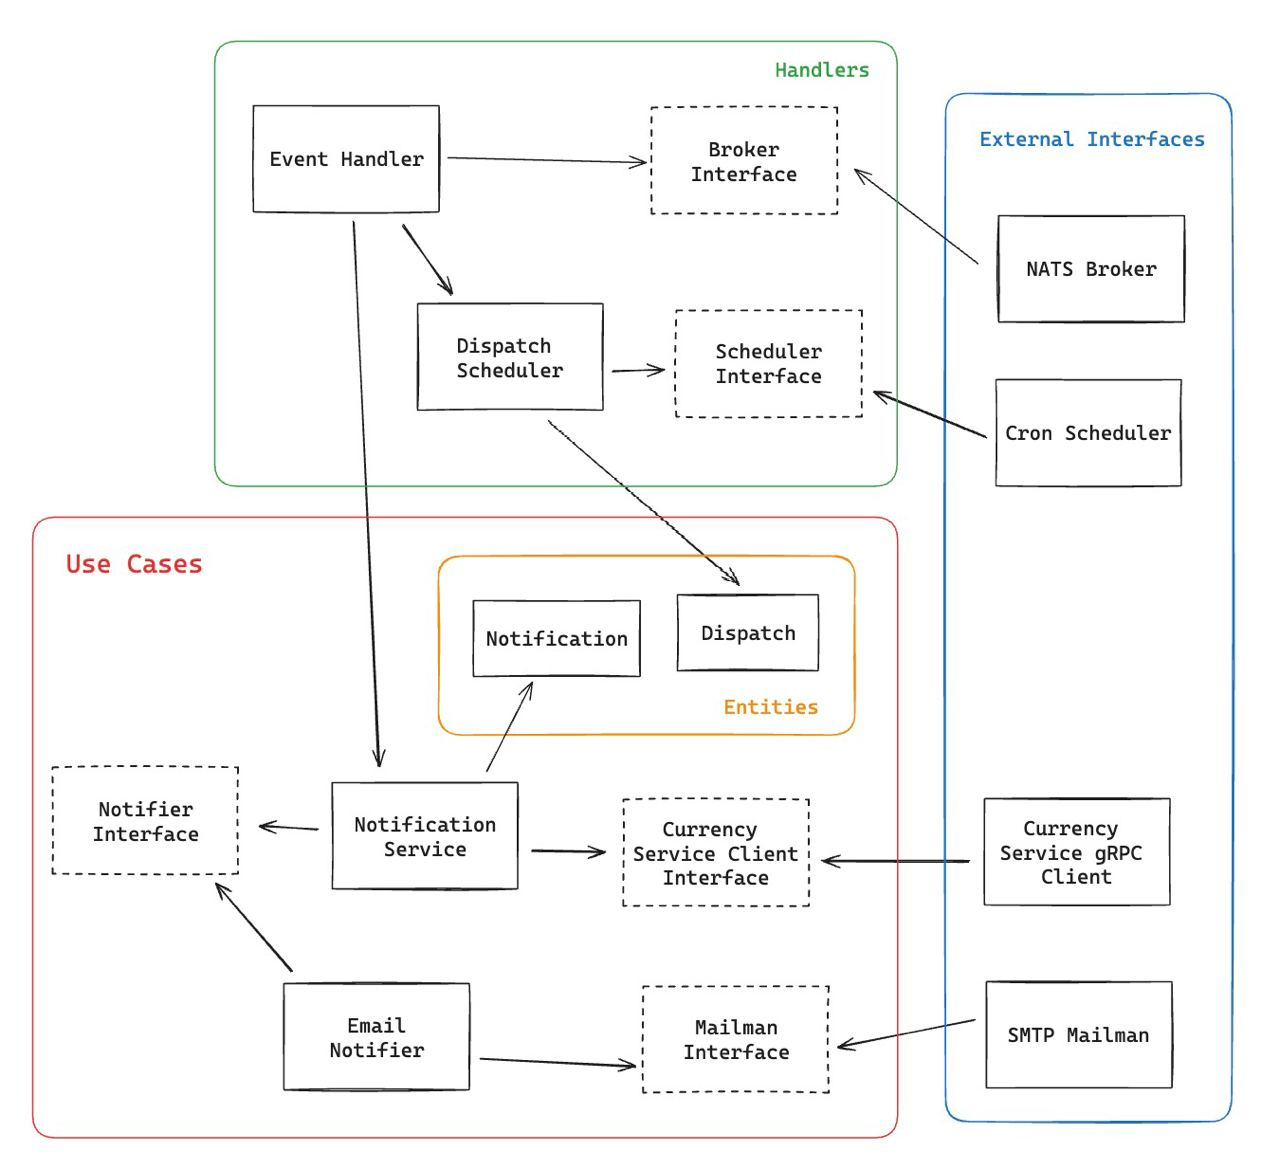
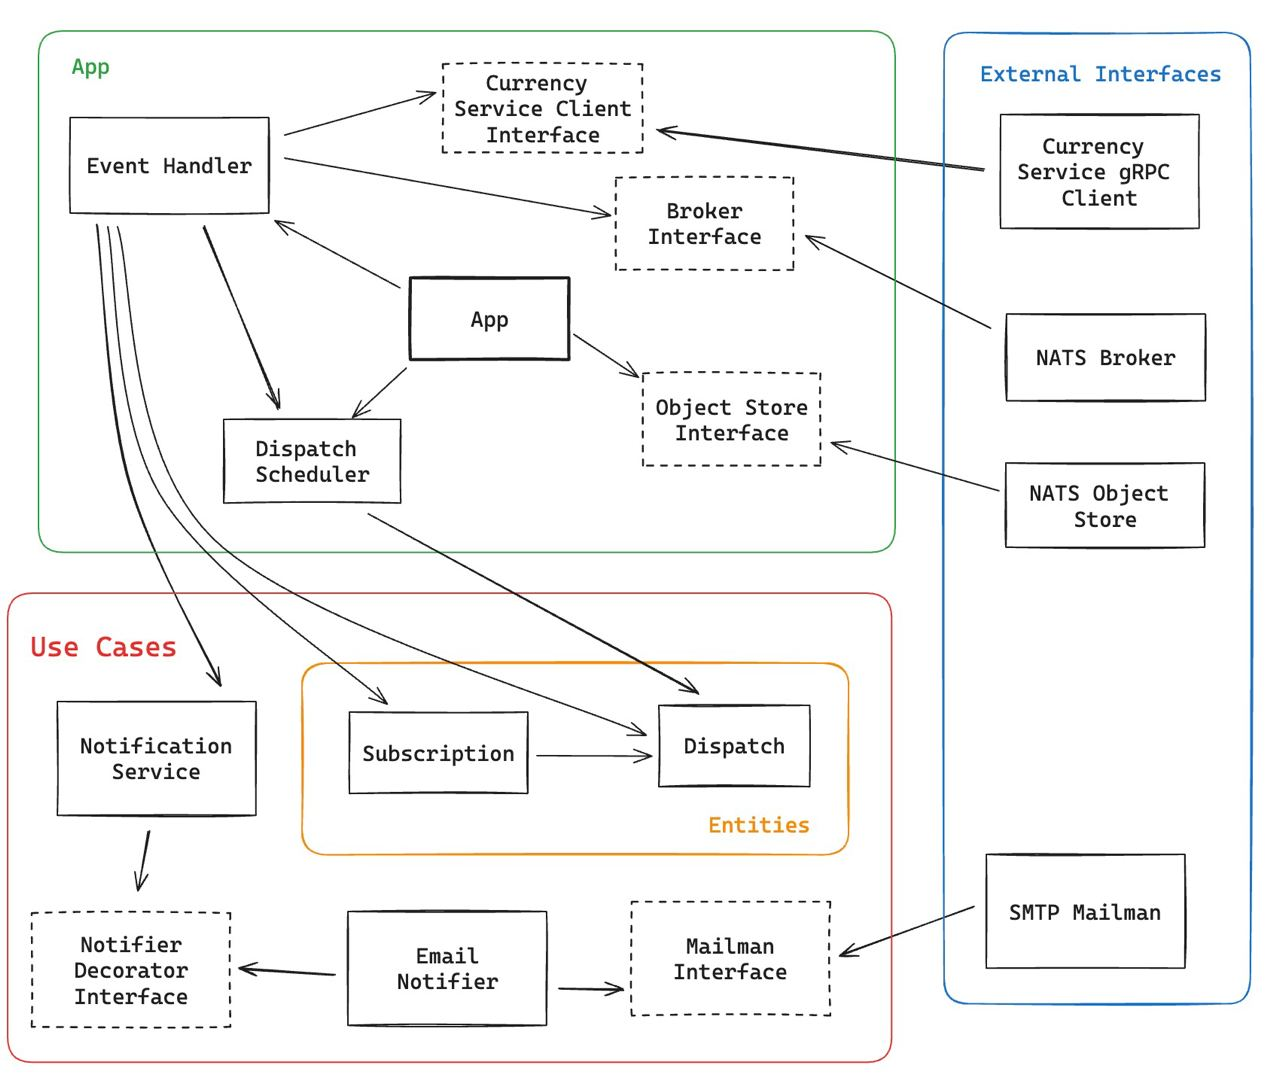
docs: added notification service description

diff --git a/service/notification/internal/app/event_handler.go b/service/notification/internal/app/event_handler.go
@@ -11,6 +11,7 @@ import (
 	"github.com/GenesisEducationKyiv/software-engineering-school-4-0-boredgus/service/notification/internal/entities"
 	"github.com/GenesisEducationKyiv/software-engineering-school-4-0-boredgus/service/notification/internal/service"
 	"google.golang.org/protobuf/proto"
+	"google.golang.org/protobuf/types/known/timestamppb"
 )
 
 type (
@@ -30,15 +31,19 @@ type (
 	}
 
 	Scheduler interface {
-		AddSubscription(entities.Subscription)
+		AddSubscription(entities.Subscription, func(*entities.Dispatch))
+	}
+
+	Converter interface {
+		Convert(ctx context.Context, baseCcy string, targetCcies []string) (map[string]float64, error)
 	}
 
 	eventHandler struct {
-		broker        Broker
-		dispatchStore DispatchStore
-		scheduler     Scheduler
-		logger        config.Logger
-		service       NotificationService
+		broker    Broker
+		converter Converter
+		scheduler Scheduler
+		logger    config.Logger
+		service   NotificationService
 	}
 )
 
@@ -51,18 +56,50 @@ const (
 
 func NewEventHandler(
 	broker Broker,
-	dispatchStore DispatchStore,
+	ccyConverter Converter,
 	dispatchScheduler Scheduler,
 	service NotificationService,
 	logger config.Logger,
 ) *eventHandler {
 
 	return &eventHandler{
-		logger:        logger,
-		dispatchStore: dispatchStore,
-		scheduler:     dispatchScheduler,
-		broker:        broker,
-		service:       service,
+		logger:    logger,
+		scheduler: dispatchScheduler,
+		broker:    broker,
+		service:   service,
+	}
+}
+
+func (h *eventHandler) invokeSendingOfDispatch(d *entities.Dispatch) {
+	msg := broker_msgs.SendDispatchCommand{
+		EventType: broker_msgs.EventType_SEND_DISPATCH,
+		Timestamp: timestamppb.New(time.Now().UTC()),
+		Data: &broker_msgs.Data{
+			Emails:  d.Emails,
+			BaseCcy: d.BaseCcy,
+		},
+	}
+
+	ctx, cancel := context.WithTimeout(context.Background(), TimeoutOfProcessing)
+	defer cancel()
+
+	rates, err := h.converter.Convert(ctx, d.BaseCcy, d.TargetCcies)
+	if err != nil {
+		h.logger.Errorf("failed to get rates: %v", err)
+
+		return
+	}
+	msg.Data.Rates = rates
+
+	marshalled, err := proto.Marshal(&msg)
+	if err != nil {
+		h.logger.Errorf("failed to marshal SendDispatchCommand: %v", err)
+
+		return
+	}
+
+	if err := h.broker.PublishAsync(SendDispatchCommand, marshalled); err != nil {
+		h.logger.Errorf("failed to emit SendDispatch commands: %v", err)
 	}
 }
 
@@ -72,13 +109,15 @@ func (h *eventHandler) handleSubscriptionCreatedEvent(msg broker.ConsumedMessage
 		return fmt.Errorf("failed to unmarshal message from %s: %w", SubscriptionCreatedEvent, err)
 	}
 
-	h.scheduler.AddSubscription(entities.Subscription{
+	sub := entities.Subscription{
 		DispatchID:  parsedMsg.Payload.DispatchID,
 		BaseCcy:     parsedMsg.Payload.BaseCcy,
 		TargetCcies: parsedMsg.Payload.TargetCcies,
 		Email:       parsedMsg.Payload.Email,
 		SendAt:      parsedMsg.Payload.SendAt.AsTime(),
-	})
+	}
+
+	h.scheduler.AddSubscription(sub, h.invokeSendingOfDispatch)
 
 	ctx, cancel := context.WithTimeout(context.Background(), TimeoutOfProcessing)
 	defer cancel()

diff --git a/service/notification/cmd/server/main.go b/service/notification/cmd/server/main.go
@@ -65,25 +65,24 @@ func main() {
 	)
 	panicOnError(err, "failed to connect to NATS broker")
 
+	// connection to message broker
 	js, err := jetstream.New(natsConnection)
 	panicOnError(err, "failed to create NATS Jetstream instance")
 
+	// initializatin of broker client
 	natsBroker, err := broker.NewNatsBroker(js, logger)
 	panicOnError(err, "failed to create broker")
 
+	// connecting to object store
 	jetstreamStore, err := natsBroker.ObjectStore("dispatches")
 	panicOnError(err, "failed to connect to object store")
 
-	dispatchStore := repo.NewDispatchRepo(broker.NewObjectStore(jetstreamStore))
-
 	// initalization of cron scheduler
-	scheduler := scheduler.NewDispatchScheduler(
-		app.DispatchInvoker(natsBroker, currencyService, logger),
-	)
+	scheduler := scheduler.NewDispatchScheduler()
 
 	handler := app.NewEventHandler(
 		natsBroker,
-		dispatchStore,
+		currencyService,
 		scheduler,
 		notificationService,
 		logger,
@@ -93,6 +92,6 @@ func main() {
 		handler,
 		scheduler,
 		logger,
-		dispatchStore,
+		repo.NewDispatchRepo(broker.NewObjectStore(jetstreamStore)),
 	).Run()
 }

diff --git a/service/notification/internal/app/scheduler/scheduler.go b/service/notification/internal/app/scheduler/scheduler.go
@@ -36,7 +36,7 @@ type (
 	}
 )
 
-func NewDispatchScheduler(dispatchInvoker func(*entities.Dispatch)) *dispatchScheduler {
+func NewDispatchScheduler() *dispatchScheduler {
 	return &dispatchScheduler{
 		mu:                  &sync.Mutex{},
 		cron:                cron.New(cron.WithLocation(time.UTC)),
@@ -73,7 +73,7 @@ func (s *dispatchScheduler) AddDispatches(ds map[string]entities.Dispatch) {
 	}
 }
 
-func (s *dispatchScheduler) AddSubscription(sub entities.Subscription) {
+func (s *dispatchScheduler) AddSubscription(sub entities.Subscription, invokerF func(*entities.Dispatch)) {
 	s.mu.Lock()
 	defer s.mu.Unlock()
 
@@ -89,7 +89,7 @@ func (s *dispatchScheduler) AddSubscription(sub entities.Subscription) {
 		dispatch.Data.Emails = append(dispatch.Data.Emails, sub.Email)
 	}
 
-	entryID, err := s.cron.AddJob(dispatch.Spec.String(), NewSendDispatchJob(dispatch.Data, s.dispatchInvokerF))
+	entryID, err := s.cron.AddJob(dispatch.Spec.String(), NewSendDispatchJob(dispatch.Data, invokerF))
 	if err != nil {
 		return
 	}

diff --git a/service/notification/internal/app/app.go b/service/notification/internal/app/app.go
@@ -19,8 +19,6 @@ type (
 	DispatchScheduler interface {
 		Run()
 		AddDispatches(ds map[string]entities.Dispatch)
-		AddSubscription(entities.Subscription)
-		// CancelSubscription(entities.Subscription)
 		Stop()
 	}
 	app struct {

diff --git a/README.md b/README.md
@@ -10,7 +10,8 @@ API allows:
 - __[gin](https://gin-gonic.com/docs/)__ as web framework.
 - __[mockery](https://vektra.github.io/mockery/latest/)__ for generation of interface mocks.
 - __[PostgreSQL](https://www.postgresql.org/)__ as main storage.
-- __[gRPC](https://grpc.io/)__ for inter-service communication.
+- __[gRPC](https://grpc.io/)__ for synchronous inter-service communication.
+- __[NATS](https://docs.nats.io/)__ for asynchronous inter-service communication.
 - __[ExchangeRate-API](https://www.exchangerate-api.com/)__, __[Currency Beacon API](https://currencybeacon.com/)__ and __[Free Currency API](https://github.com/fawazahmed0/exchange-api)__ as third-party APIs for currency rate info.
 
 ## Quick start
@@ -19,10 +20,9 @@ API allows:
 ```
 cp ./.env.example ./.env
 ```
-2. Get API key from [third-API](https://app.exchangerate-api.com/) and set to `EXCHANGE_CURRENCY_API_KEY` value in `.env`.
-3. Update `SMTP_EMAIL` and `SMTP_USERNAME` values in `.env`.
-4. Get app password from Google ([instruction](https://support.google.com/mail/answer/185833?hl=en)) and set to `SMTP_PASSWORD` value in `.env`.
-5. Start project with command (uses docker) below:
+2. Update `SMTP_EMAIL` and `SMTP_USERNAME` values in `.env`.
+3. Get app password from Google ([instruction](https://support.google.com/mail/answer/185833?hl=en)) and set to `SMTP_PASSWORD` value in `.env`.
+4. Start project with command (uses docker) below:
 ```
 make start
 ```
@@ -32,8 +32,6 @@ make start
 ![system design](docs/system-design.png)
 
 ### Processes
-
-Keeping in mind 6th factor __Processes__ of _12-factor App_ I splitted app functionality into separate processes:
 
 1. ___Gateway___ is an entry point for external users of `SubscriptionAPI`. It is web server and\
 makes requests via gRPC to services for required functionality. For now it allows \
@@ -48,19 +46,18 @@ sending of dispatches thorough SMTP server to subscribers, and getting info abou
 In perspective it would be able to create dispatches, change dispatches, \
 customize subscriptions etc.
 
-4. ___Dispatch Daemon___ is an automatic process that gets info about dispatches, \
-schedules them, and invokes their sending.
+4. ___Notification Service___ is responsible for monitoring of subscription-related events and dispatch scheduling. Except of dispatches, when user subscibes for a dispatch, it sends details of the subscription.
 
 5. _[not implemented yet]_ ___Rate Daemon___ is an automatic process that invokes \
 updating of exchange rates.
 
 #### Per service documentation
-1. [Dispatch Daemon](./daemon/dispatch)
-2. [Gateway](./gateway)
-3. [Currency Service](./service/currency)
-4. [Dispatch Service](./service/dispatch)
+1. [Gateway](./gateway)
+2. [Currency Service](./service/currency)
+3. [Dispatch Service](./service/dispatch)
+4. [Notification Service](./service/notification)
 
 ## TODO
 1. Implement rate daemon
-2. Send welcome email when user subscribes for dispatch
-4. to be continued...
+2. Cache currency rates to decrease amount of calls to third-APIs
+3. to be continued...

diff --git a/service/notification/README.md b/service/notification/README.md
@@ -1,0 +1,13 @@
+# Notification Service
+
+## Description
+
+Service monitors subscription-related events and sends appropriate notifications for users (e.g. on subscription created sends email with details of subscription).
+Also service is responsible for scheduling of dispatches that have at least one subscriber. It consumes event of creation of subscription and adds/updates job for cron scheduler.
+
+## Architecture
+![architecture](./docs/service-architecture.jpg)
+
+## Tests
+
+There are implemented only dependency tests, but in pregress there will be unit and integration tests.

diff --git a/service/dispatch/README.md b/service/dispatch/README.md
@@ -1,5 +1,9 @@
 # Dispatch Service
 
+## Description
+
+Dispatch Service manages dispatches and subscriptions for them.
+
 ## Architecture
 ![architecture](./docs/service-architecture.jpg)
 
